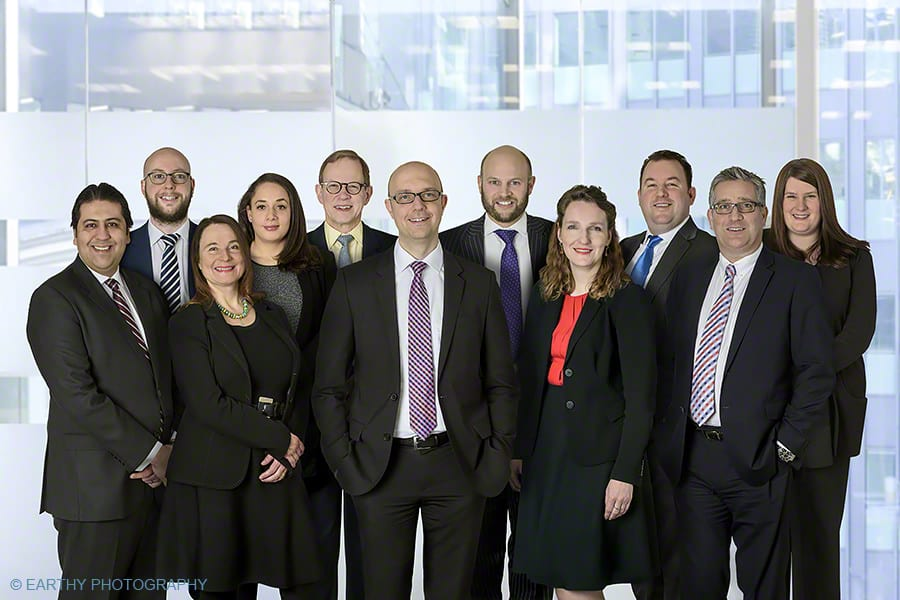
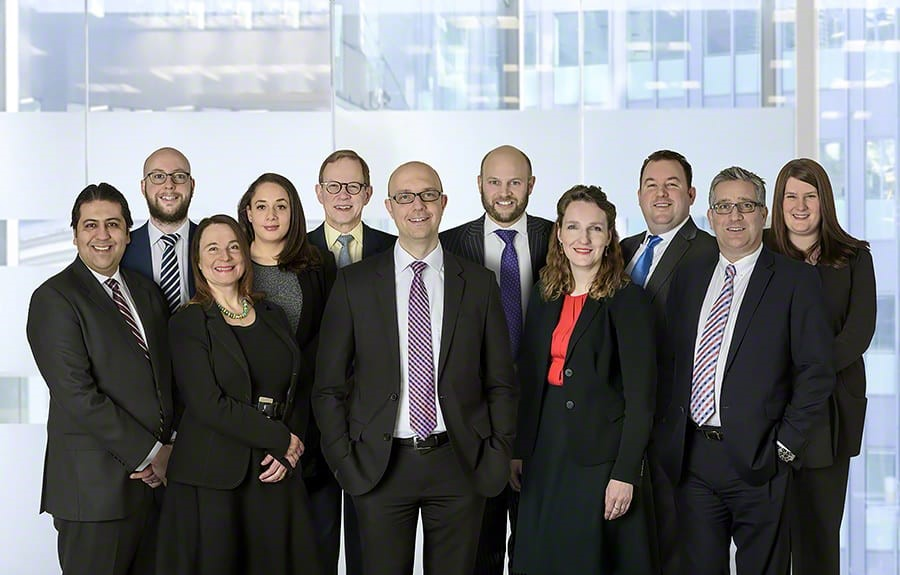
meet our team

diff --git a/src/components/About/about.jsx b/src/components/About/about.jsx
@@ -19,17 +19,30 @@ const About = () => {
 
 
       <div className=' bg-blue-50 p-8 md:px-20  text-lg  lg:px-32'>
-
-        {/* <p className='font-thin text-xl lg:text-2xl'>We are <br /> <span className='font-bold underline underline-offset-4 text-2xl md:text-3xl  lg:text-4xl'>CA.UK.</span><span className='font-bold underline underline-offset-4 text-2xl md:text-3xl  lg:text-4xl text-orange-600'>ABC</span></p> */}
         <p className=' font-bold underline underline-offset-4 text-2xl md:text-3xl  lg:text-4xl' >What We<span className='font-bold underline underline-offset-4 text-2xl md:text-3xl  lg:text-4xl text-orange-600'> DO</span></p>
 
-        <div className='md:grid grid-cols-2 py-4 md:py-10  '>
+        <div className='md:grid grid-cols-2 pt-4 md:pt-10  '>
 
           <img src={whatWeDo} className=' rounded-3xl	h-full ' />
 
-          <p className='pt-2 lg:pt-28 lg:text-xl align-center px-2 md:pl-12 lg:pl-20'>At CA.UK.ABC, we specialize in a wide array of accounting and financial services tailored to meet the diverse needs of our clients. From meticulous auditing and assurance to strategic tax planning and compliance. We are dedicated to empowering your financial success through our expertise, innovation, and unwavering commitment to your goals.</p>
+          <p className='pt-2 lg:pt-28 lg:text-xl align-center px-2 md:pl-12 lg:pl-20'>At <span className='font-bold'>CA.UK.ABC</span>, we specialize in a wide array of accounting and financial services tailored to meet the diverse needs of our clients. From meticulous auditing and assurance to strategic tax planning and compliance. We are dedicated to empowering your financial success through our expertise, innovation, and unwavering commitment to your goals.</p>
 
-          {/* <img src={aboutTeam} className='w-full' alt="" /> */}
+        </div>
+
+        <div>
+        </div>
+      </div>
+      <div className=' bg-blue-50 p-8 md:px-20  text-lg  lg:px-32'>
+        <p className=' font-bold underline underline-offset-4 text-2xl md:text-3xl  lg:text-4xl' >Meet Our<span className='font-bold underline underline-offset-4 text-2xl md:text-3xl  lg:text-4xl text-orange-600'> Team</span></p>
+
+        <div className=' '>
+
+
+          <p className='pt-2 lg:pt-10 lg:text-xl '>At <span className='font-bold'>CA.UK.ABC</span>, our success is driven by our exceptional team of professionals. From our visionary founders to our dedicated client managers, team leads, and accountants, every member of our team brings a wealth of expertise and a commitment to excellence. Together, we work tirelessly to deliver outstanding service and build lasting relationships with our clients.
+          <img src={aboutTeam} className='w-full pt-4 md:pt-10' alt="" />
+
+</p>
+
         </div>
 
         <div>
